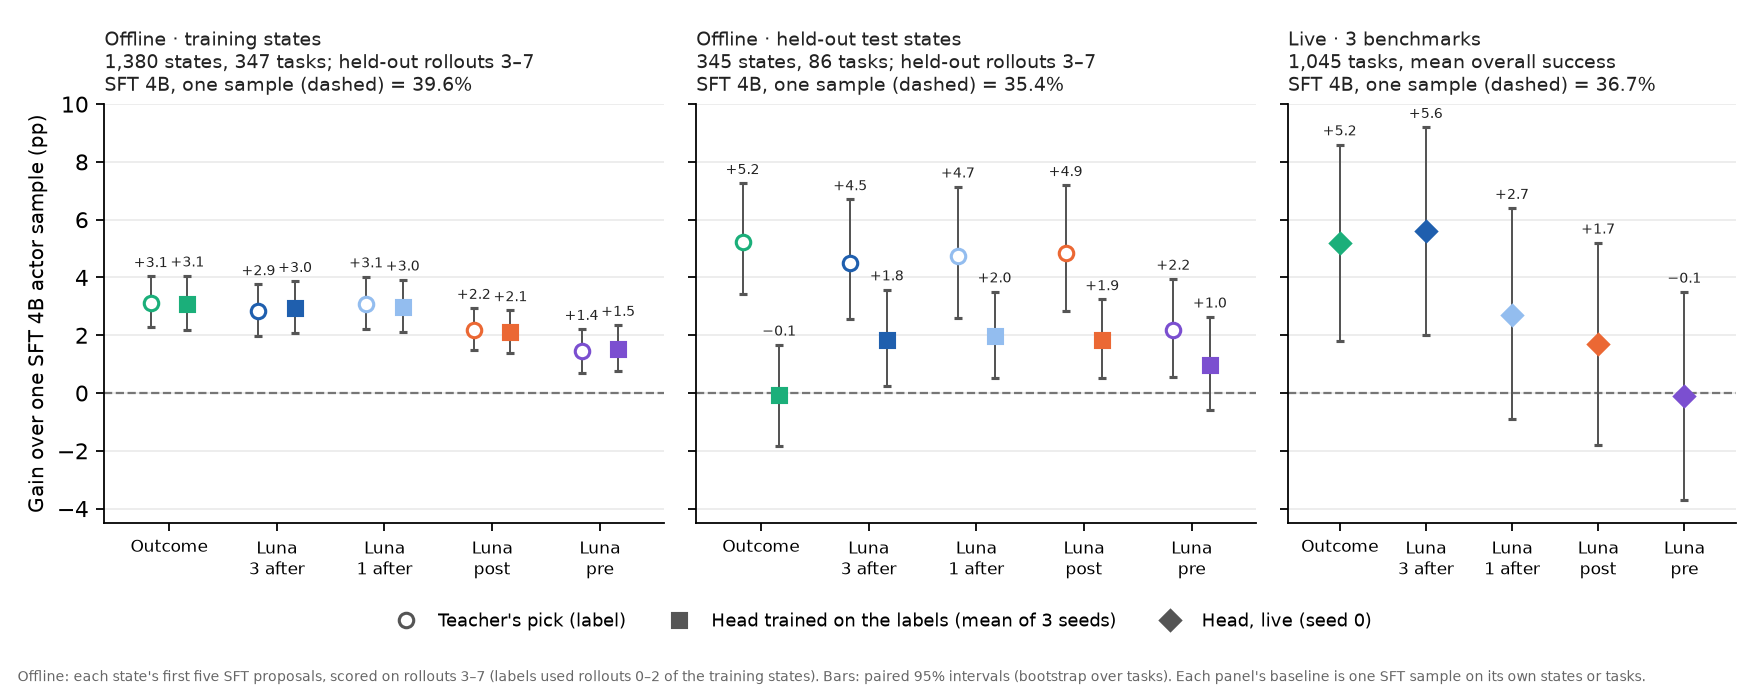
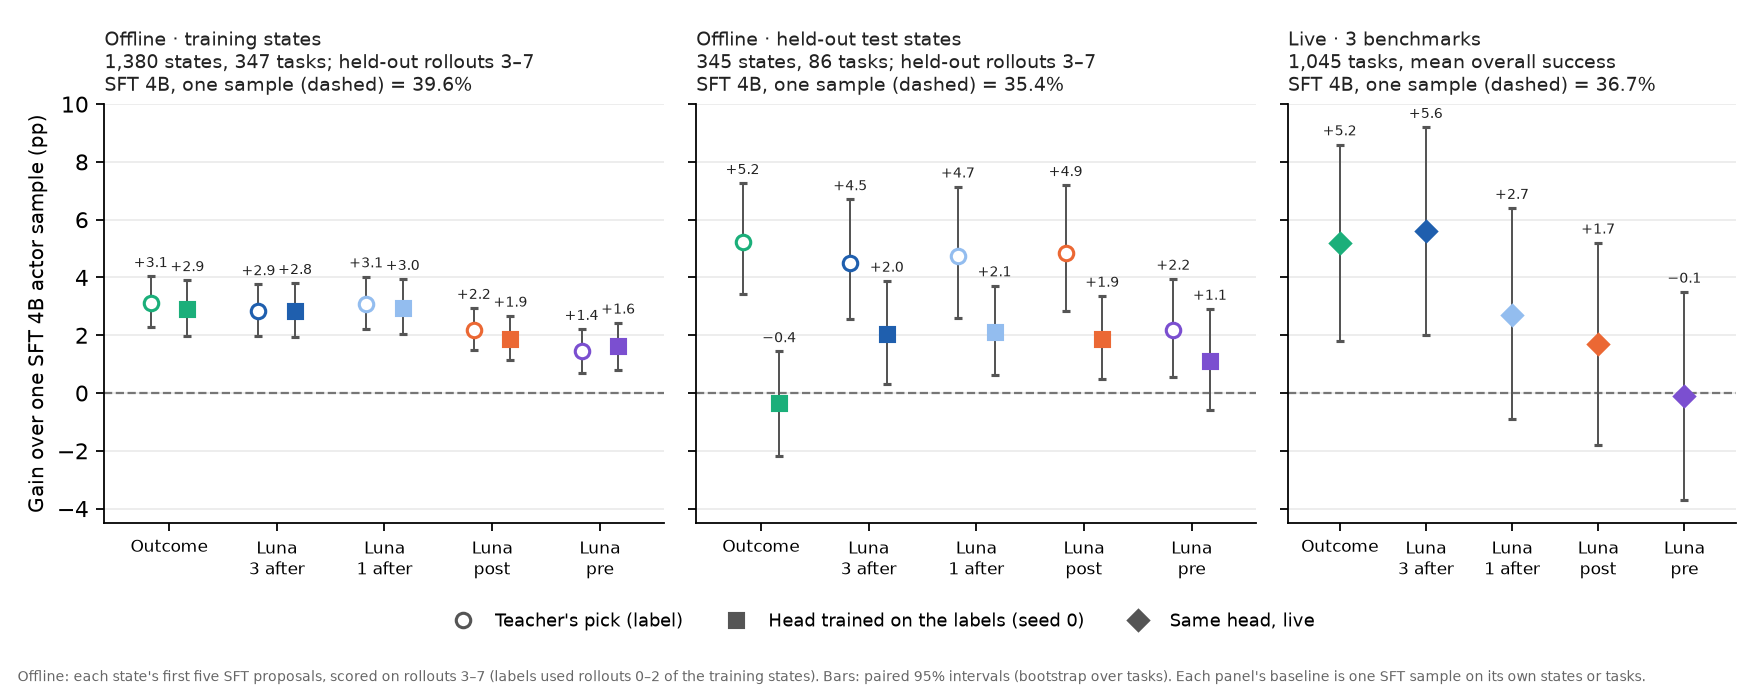
Selection head: same-state label plots use the seed-0 head (the one run live) instead of the 3-seed mean

diff --git a/openwebrl/docs/arm_results/rl_integration/selection-label-same-state-20261027-plot.py b/openwebrl/docs/arm_results/rl_integration/selection-label-same-state-20261027-plot.py
@@ -4,7 +4,7 @@ SFT 4B actor at five points.
 
 Offline (selection-label-same-state-20261027.json): SFT-action branch states, each state's first five SFT proposals
 (duplicates kept) scored on held-out draws 3-7.
-  - Teacher: the label's argmax among the five (ties averaged). Head: the 22.6 M head, mean of three seeds' picks.
+  - Teacher: the label's argmax among the five (ties averaged). Head: the 22.6 M seed-0 head (the one run live).
   - Train states: the 1,380 states the heads were trained on (labels came from draws 0-2, so draws 3-7 are still held out).
   - Test states: 345 held-out states (86 tasks).
 Live: the seed-0 head, three-benchmark mean overall success (Online-Mind2Web 300 by gpt-5.6-terra, WebVoyager 595 and
@@ -70,8 +70,8 @@ handles = [Line2D([], [], marker=m, ls="", color="#555555", ms=6, markeredgewidt
                   markerfacecolor="#555555" if f else "white") for _, m, f, _ in MARK]
 ax.legend(handles, [l for l, *_ in MARK], frameon=False, fontsize=7.3, loc="upper center", bbox_to_anchor=(0.5, -0.15),
           ncol=3, columnspacing=1.2)
-fig.text(0.01, 0.01, "Offline: first five SFT proposals per state, scored on held-out draws 3-7; head = mean of 3 seeds. "
-         "Live (shaded): seed-0 head. Bars: paired 95% intervals (bootstrap over tasks).\nEach point is relative to one SFT "
+fig.text(0.01, 0.01, "Offline: first five SFT proposals per state, scored on held-out draws 3-7; head = seed 0, as live. "
+         "Live: shaded. Bars: paired 95% intervals (bootstrap over tasks).\nEach point is relative to one SFT "
          f"sample on its own states or tasks (train {S['train']['sft_sample']:.1f}%, test {S['test']['sft_sample']:.1f}%, "
          f"live 3-benchmark mean {LIVE['SFT 4B']['mean_overall']:.1f}%).", fontsize=6.5, color=MUTED)
 fig.tight_layout(rect=(0, 0.06, 1, 1))

diff --git a/openwebrl/docs/arm_results/rl_integration/selection-label-setups-20261027-plot.py b/openwebrl/docs/arm_results/rl_integration/selection-label-setups-20261027-plot.py
@@ -4,7 +4,7 @@
 (1) Offline, training states: the 1,380 SFT-action branch states the heads were trained on. Labels came from rollouts 0-2;
     each state's first five SFT proposals (duplicates kept) are scored on held-out rollouts 3-7.
 (2) Offline, held-out states: 345 test states (86 tasks), same five proposals and rollouts 3-7.
-    Teacher = the label's argmax among the five (ties averaged); head = mean of three seeds' picks
+    Teacher = the label's argmax among the five (ties averaged); head = the seed-0 head, the one run live
     (selection-label-same-state-20261027.json).
 (3) Live: the seed-0 head, three-benchmark mean overall success (Online-Mind2Web 300 by gpt-5.6-terra, WebVoyager 595 and
     DeepShop 150 by GPT-4o) (selection-data-scale-20261023.json; post-execution from selection-label-stages-20261027.json).
@@ -62,7 +62,7 @@ for ax, (title, split, base) in zip(axes, PANELS):
 axes[0].set_ylim(-4.5, 10); axes[0].set_ylabel("Gain over one SFT 4B actor sample (pp)", fontsize=9)
 handles = [Line2D([], [], marker=m, ls="", color="#555555", ms=6.5, markeredgewidth=1.4,
                   markerfacecolor="#555555" if f else "white") for m, f in (("o", False), ("s", True), ("D", True))]
-fig.legend(handles, ["Teacher's pick (label)", "Head trained on the labels (mean of 3 seeds)", "Head, live (seed 0)"],
+fig.legend(handles, ["Teacher's pick (label)", "Head trained on the labels (seed 0)", "Same head, live"],
            frameon=False, fontsize=8, loc="lower center", ncol=3, bbox_to_anchor=(0.5, 0.06))
 fig.text(0.01, 0.01, "Offline: each state's first five SFT proposals, scored on rollouts 3–7 (labels used rollouts 0–2 of the "
          "training states). Bars: paired 95% intervals (bootstrap over tasks). Each panel's baseline is one SFT sample on "

diff --git a/openwebrl/docs/ARM_FINAL_RESULTS.md b/openwebrl/docs/ARM_FINAL_RESULTS.md
@@ -275,7 +275,7 @@ Its conservative all-attempt model total was $353.582380 ($348.649556 known usag
 - **From teacher to live, per label source.** For each label, three gains over one sample of the same SFT 4B actor: the teacher's own pick offline (held-out rollouts 3–7 on the 1,010 main-set branch states; [details](ARM_FORMULATIONS.md#lookahead-labels-current)), the head trained on those labels offline (fixed five on the 348 test states) and the same head live (three-benchmark mean). The stages use different states and tasks, so compare orderings within a stage, not sizes across stages. Online-Mind2Web here uses the current gpt-5.6-terra judge (all runs re-judged from saved requests), so the live gains are slightly lower than the o4-mini numbers above. Post-execution labels (Luna judging each action from its immediate result) were added on 2026-10-27: its head gains +1.8 pp offline and +1.7 pp [−1.8, +5.2] live (Online-Mind2Web −0.3, WebVoyager +4.0, DeepShop +1.3; [data](arm_results/rl_integration/selection-post-label-20261027.json)), close to the one-step-after head; DeepShop SFT varied 26.7–34.0% across three runs, so DeepShop gains carry run-date drift. Bars are [paired 95% intervals](#final-paired-bootstrap). [Plot script](arm_results/rl_integration/selection-label-stages-20261027-plot.py) · [data](arm_results/rl_integration/selection-label-stages-20261027.json)
 
   ![Gain over one SFT 4B sample for each label source at three stages: teacher pick offline, trained head offline, trained head live; prior judge formulations as teachers only](arm_results/rl_integration/selection-label-stages-20261027.png)
-- **Same states, train and test (draft, under review).** Teacher and head scored on the same SFT-action branch states, so offline points share states: each state's first five SFT proposals (duplicates kept) on held-out draws 3–7; the head is the mean of three seeds. On the 1,380 training states (labels came from draws 0–2) every head matches its teacher within 0.1 pp. On the 345 held-out test states (86 tasks) every teacher gains 4.5–5.2 pp except pre-execution (+2.2); the Luna heads keep about 2 pp of that, the outcome head none (−0.1 [−1.8, +1.7]), yet the outcome head is among the best live. Each point is relative to one SFT sample on its own states or tasks; live is the seed-0 head. [Plot script](arm_results/rl_integration/selection-label-same-state-20261027-plot.py) · [data](arm_results/rl_integration/selection-label-same-state-20261027.json)
+- **Same states, train and test (draft, under review).** Teacher and head scored on the same SFT-action branch states, so offline points share states: each state's first five SFT proposals (duplicates kept) on held-out draws 3–7; the head is the seed-0 head, the same one run live. On the 1,380 training states (labels came from draws 0–2) every head matches its teacher within 0.3 pp. On the 345 held-out test states (86 tasks) every teacher gains 4.5–5.2 pp except pre-execution (+2.2); the Luna heads keep about 2 pp of that, the outcome head none (−0.4 [−2.2, +1.4]), yet the outcome head is among the best live. Each point is relative to one SFT sample on its own states or tasks. [Plot script](arm_results/rl_integration/selection-label-same-state-20261027-plot.py) · [data](arm_results/rl_integration/selection-label-same-state-20261027.json)
 
   ![Gain over one SFT 4B sample for each label source: teacher and head on training states, teacher and head on held-out test states, and the head live](arm_results/rl_integration/selection-label-same-state-20261027.png)
 - **Same comparison, one panel per setup (draft, under review).** Training states, held-out test states and live use different states, tasks and SFT baselines, so each gets its own panel; teacher and head are paired only offline, where both are scored. Offline points use held-out rollouts 3–7 in both splits (training-state labels came from rollouts 0–2). [Plot script](arm_results/rl_integration/selection-label-setups-20261027-plot.py)
